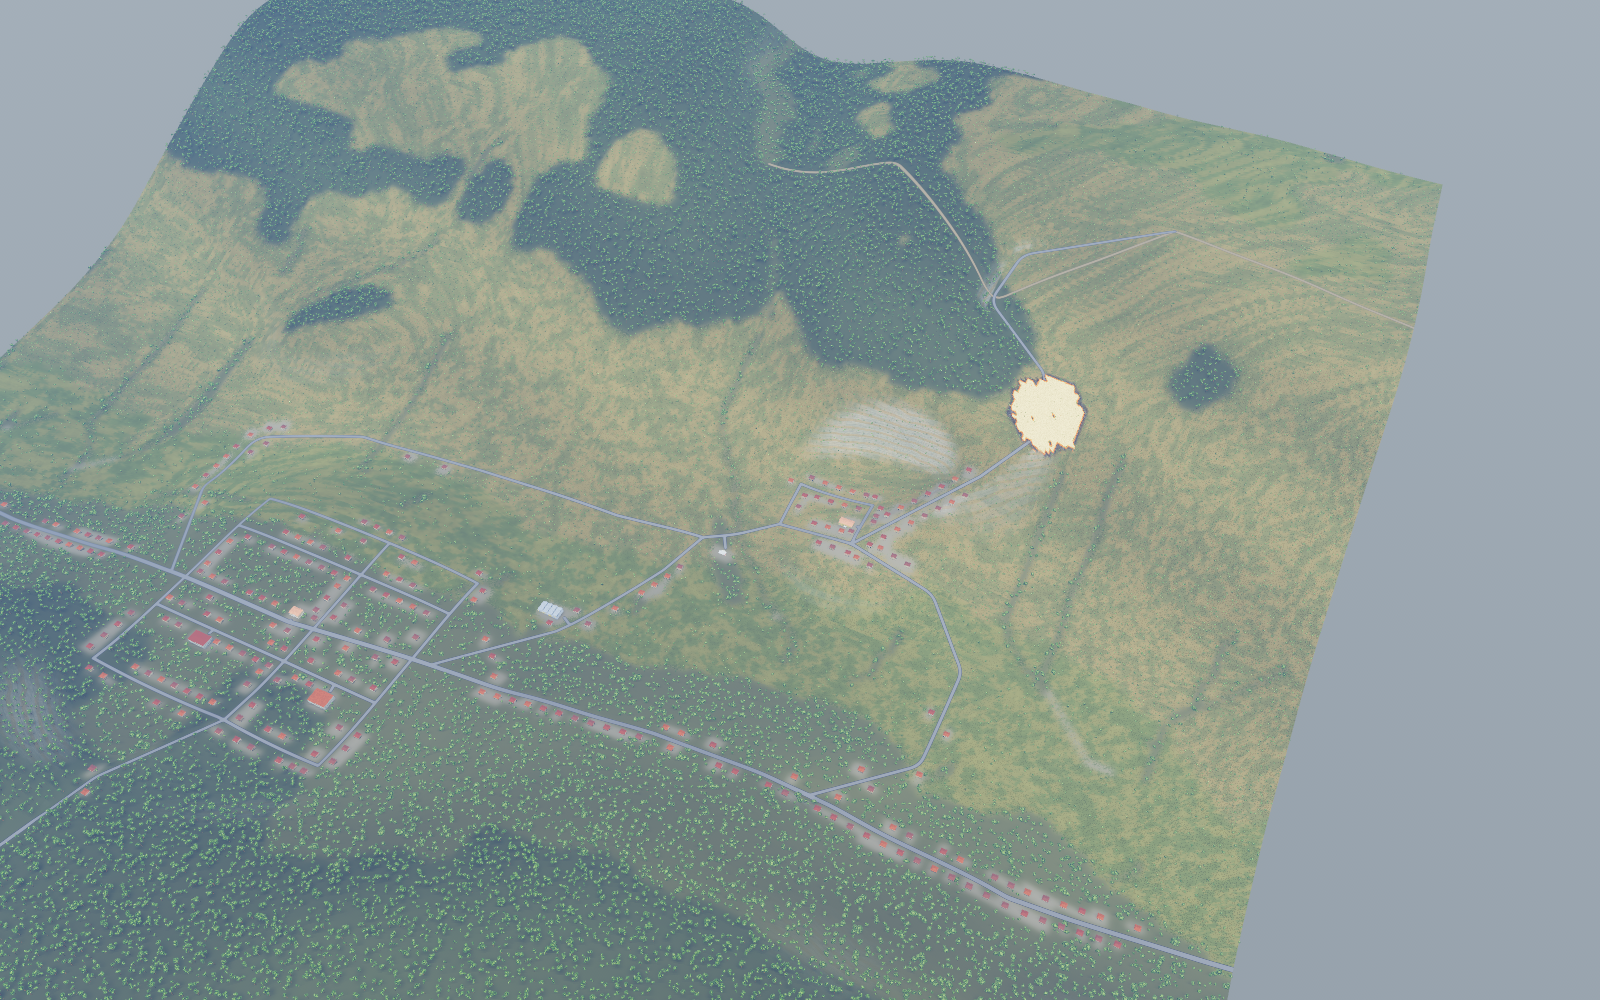
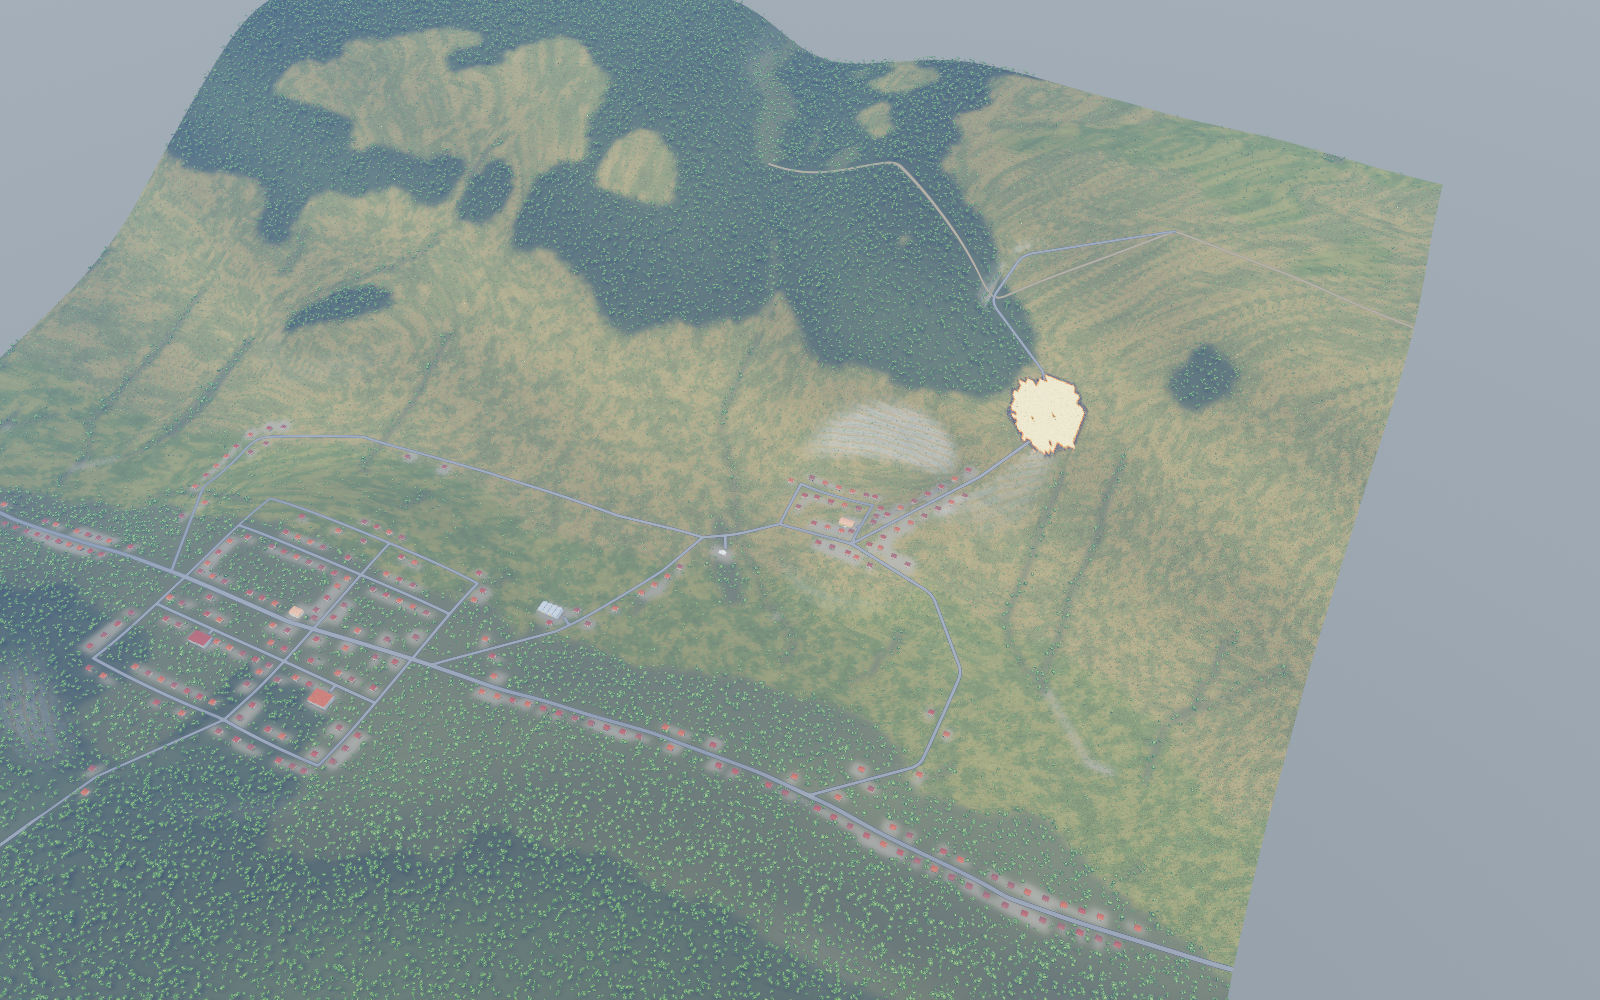
docs: finalize Valverde landscape verification and preview

Changed region(s): [[0.0, 0.496, 0.75, 1.0]]

diff --git a/docs/landscape-generation.md b/docs/landscape-generation.md
@@ -43,12 +43,12 @@ Il generatore adatta il DEM sintetico a 20 m ai tracciati: un problema vincolato
 di sterro/riporto limita la pendenza, distribuendo le correzioni sulle banchine
 con regolarizzazione spaziale. Non è una correzione nascosta del renderer: il
 DEM risultante è quello fisico salvato. Il manifest registra correzione massima,
-RMS e residuo numerico (nel territorio fornito: circa 57 m massimi, 4,74 m RMS).
+RMS e residuo numerico (nel territorio fornito: circa 57 m massimi, 4,73 m RMS).
 Sono movimenti di terreno sintetici, non lavori dimensionati su dati reali.
 
 Raccordi e incroci condividono realmente i vertici; i percorsi sono verificati
 sul grafo Rust usato dalla simulazione. Il controllo finale rifiuta pendenze
-carrabili bilineari superiori al 18%; il risultato fornito arriva al 15,35%.
+carrabili bilineari superiori al 18%; il risultato fornito arriva al 15,77%.
 È una soglia della ricetta, non un criterio progettuale validato per mezzi reali.
 
 ## Tool trasferiti e provenienza
@@ -93,6 +93,6 @@ storica o il video dimostrativo valgano per il nuovo scenario.
 Verifica del 2026-10-21: rigenerazione identica byte per byte, 24 corse accoppiate
 sui semi 1–3 senza comandi rifiutati; cinque catture GPU invisibili ispezionate
 (panoramica, abitato, crinale, zenitale con UI, incendio a 30 minuti). Output in
-`runs/valverde-delivery-review/` e `runs/valverde-delivery-lab/`.
+`runs/valverde-final/` e `runs/valverde-final-lab/`.
 
 ![Panoramica della nuova Valverde](screenshots/valverde_factory.png)

diff --git a/docs/graphics.md b/docs/graphics.md
@@ -279,7 +279,7 @@ visibilità cresce per evitare che i bordi quadrati dei chunk taglino i boschi.
 
 La regressione verifica continuità, normalizzazione, determinismo e assenza di
 mutazione del combustibile. Ispezionate cinque viste in
-`runs/valverde-delivery-review/`, con profilo projector, 1600×1000, Apple M4 Pro.
-La panoramica di 2 s ha raccolto 55 frame e 16 campioni GPU: media GPU 34,7 ms,
-p95 39,9 ms. La finestra invisibile e il laboratorio headless concorrente non
+`runs/valverde-final/`, con profilo projector, 1600×1000, Apple M4 Pro.
+La panoramica di 2 s ha raccolto 110 frame e 17 campioni GPU: media GPU 16,3 ms,
+p95 17,2 ms. La finestra invisibile e il laboratorio headless concorrente non
 sono una misura di fluidità interattiva o una garanzia per il proiettore.
